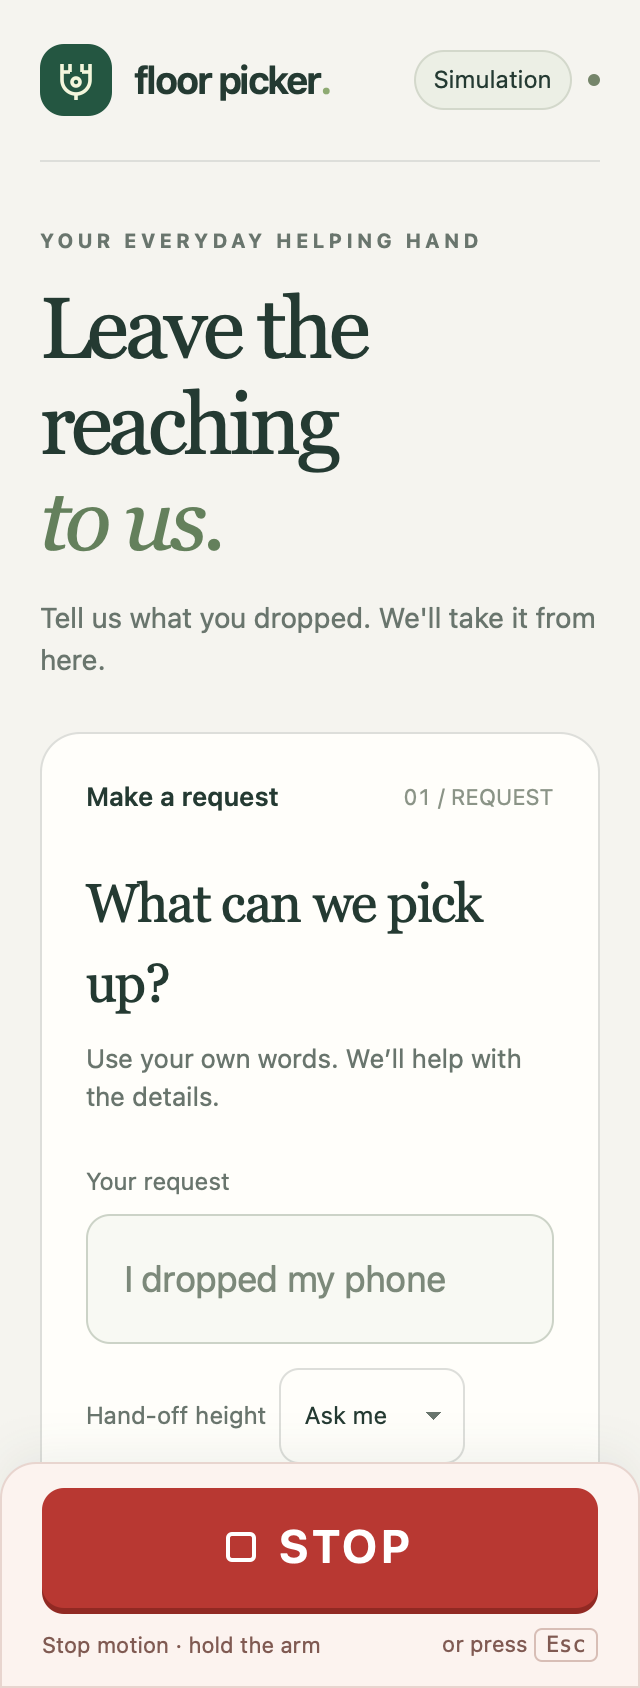
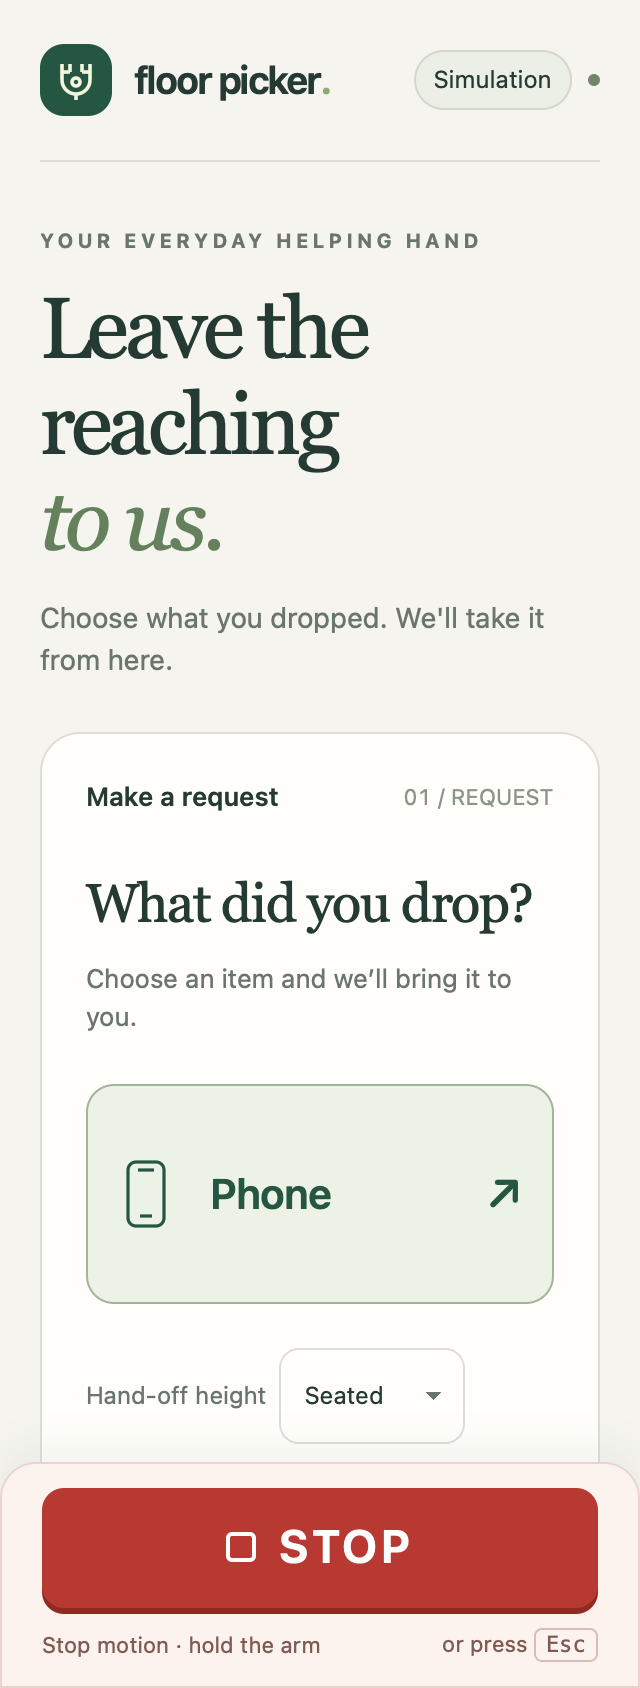
Replace typed request with a direct Phone choice

diff --git a/tests/page_harness.js b/tests/page_harness.js
@@ -132,7 +132,7 @@ const scenarios = {
   async question_is_shown_with_option_buttons() {
     routes["/request"] = opts => { bodies.push(JSON.parse(opts.body)); return reply(200, {parsed: ASK}); };
     await submit("I dropped something");
-    assert.deepStrictEqual(bodies, [{text: "I dropped something", hand: "", clarify: true, dialog: []}]);
+    assert.deepStrictEqual(bodies, [{text: "I dropped something", hand: "seated", clarify: true, dialog: []}]);
     assert.strictEqual(el("question").hidden, false);
     assert.match(el("question").textContent, /What did you drop\?/);
     assert.match(el("question").children[0].textContent, /Question 1 of up to 4/);
@@ -147,7 +147,7 @@ const scenarios = {
     routes["/request"] = opts => { bodies.push(JSON.parse(opts.body)); return reply(200, {parsed: n++ ? FETCH : ASK}); };
     await submit("I dropped something");
     await tap("phone");
-    assert.deepStrictEqual(bodies[1], {text: "I dropped something", hand: "", clarify: true,
+    assert.deepStrictEqual(bodies[1], {text: "I dropped something", hand: "seated", clarify: true,
                                        dialog: [{question: "What did you drop?", answer: "phone"}]});
     assert.strictEqual(el("reply").textContent, "Fetching: phone (standing)");
     assert.strictEqual(el("question").hidden, true, "the conversation is over");
@@ -176,7 +176,7 @@ const scenarios = {
     assert.deepStrictEqual(options(), []);
     assert.strictEqual(count("/stop"), 1);
     await submit("my pen");                  // starts afresh, not as an answer
-    assert.deepStrictEqual(bodies[1], {text: "my pen", hand: "", clarify: true, dialog: []});
+    assert.deepStrictEqual(bodies[1], {text: "my pen", hand: "seated", clarify: true, dialog: []});
     await submit("stop");                    // typed stop words clear it too
     await sleep(20);
     assert.strictEqual(el("question").hidden, true);

diff --git a/ui/server.py b/ui/server.py
@@ -385,6 +385,10 @@ dt { color:var(--muted); } dd { margin:0; font-variant-numeric:tabular-nums; ove
 footer { display:flex; justify-content:space-between; gap:16px; padding-top:24px; color:#7a8377; font-size:10px; letter-spacing:.3px; }
 #connection[data-online="false"] { color:var(--stop); } #connection[data-online="false"]::before { background:var(--stop); }
 .stale #state::after { content:" · Offline"; font:14px -apple-system,sans-serif; color:var(--stop); }
+button.phone-choice { grid-column:1/-1; grid-row:1; display:flex; align-items:center; gap:18px; min-height:110px; padding:24px; background:#edf2e6; color:var(--go); border:1px solid #a3b49b; font-size:21px; text-align:left; border-radius:14px; }
+button.phone-choice:hover { background:#dce7d1; border-color:var(--go); }
+.choice-arrow { margin-left:auto; font-size:23px; }
+#ask .select-wrap { grid-column:1/-1; margin-top:10px; }
 @media (min-width:761px) { .side { position:sticky; top:20px; } }
 @media (max-width:900px) { main { padding:0 28px 24px; } .brand-note { display:none; } h2 { font-size:46px; } .workspace { grid-template-columns:minmax(0,1.2fr) minmax(280px,1fr); } .card { padding:22px; } .select-wrap { gap:6px; } button.go { padding:12px 15px; } }
 @media (max-width:760px) {
@@ -405,21 +409,20 @@ footer { display:flex; justify-content:space-between; gap:16px; padding-top:24px
     <div class="top-status"><span class="mode">__MODE__</span><span id="connection" role="status">Connecting</span></div>
   </header>
   <section class="intro">
-    <div><div class="eyebrow">Your everyday helping hand</div><h2>Leave the reaching<br><em>to us.</em></h2><p>Tell us what you dropped. We'll take it from here.</p></div>
+    <div><div class="eyebrow">Your everyday helping hand</div><h2>Leave the reaching<br><em>to us.</em></h2><p>Choose what you dropped. We'll take it from here.</p></div>
     <p class="intro-note">From the floor to your hand.<br>A little more independence.</p>
   </section>
   <div id="stopfail" role="alert" hidden><b>STOP FAILED: hit the E-stop on the robot.</b><span id="stopwhy"></span> Trying again every second.</div>
   <div class="workspace">
     <section class="card request-card">
       <div class="card-label"><h3>Make a request</h3><span class="card-number">01 / REQUEST</span></div>
-      <h3 class="request-title">What can we pick up?</h3><p class="help">Use your own words. We’ll help with the details.</p>
+      <h3 class="request-title">What did you drop?</h3><p class="help">Choose an item and we’ll bring it to you.</p>
       <form id="ask">
-        <label class="input-label" for="text">Your request</label>
-        <input id="text" autocomplete="off" placeholder="I dropped my phone">
-        <div class="select-wrap"><label for="hand">Hand-off height</label><select id="hand" aria-label="Hand height"><option value="">Ask me</option><option value="seated">Seated</option><option value="standing">Standing</option></select></div>
-        <button class="go" id="go" type="submit" aria-disabled="false">Send request <span aria-hidden="true">↗</span></button>
+        <input id="text" type="hidden" value="phone">
+        <div class="select-wrap"><label for="hand">Hand-off height</label><select id="hand" aria-label="Hand height"><option value="seated">Seated</option><option value="standing">Standing</option></select></div>
+        <button class="go phone-choice" id="go" type="button" aria-disabled="false"><svg width="28" height="36" viewBox="0 0 28 36" fill="none" stroke="currentColor" stroke-width="1.6" aria-hidden="true"><rect x="5" y="2" width="18" height="32" rx="4"/><path d="M10 6h8M11 29h6"/></svg><span>Phone</span><span class="choice-arrow" aria-hidden="true">↗</span></button>
       </form>
-      <label id="setting"><input type="checkbox" id="clarify" checked> Ask me questions first</label>
+      <label id="setting" hidden><input type="checkbox" id="clarify"> Ask me questions first</label>
       <div id="question" role="status" aria-live="polite" hidden></div><div id="opts"></div>
       <button id="cancel" type="button" hidden>Cancel</button><div id="reply" role="status" aria-live="polite"></div>
       <div class="request-foot"><svg width="16" height="18" viewBox="0 0 16 18" fill="none" aria-hidden="true"><path d="M8 1 14 3v5c0 4-6 8-6 8S2 12 2 8V3l6-2Z" stroke="currentColor"/><path d="m5 8 2 2 4-4" stroke="currentColor"/></svg> You're in control. Stop a request at any time.</div>
@@ -500,7 +503,7 @@ $("cancel").addEventListener("click", () => { endConversation(); $("reply").text
 // The "Ask me questions first" setting; the page works without localStorage.
 let handTouched = false;
 try { const v = localStorage.getItem("clarify"); if (v !== null) $("clarify").checked = v === "1"; } catch (e) {}
-const syncHand = () => { if (!handTouched) $("hand").value = $("clarify").checked ? "" : "seated"; };
+const syncHand = () => { if (!handTouched) $("hand").value = "seated"; };
 syncHand();
 $("hand").addEventListener("change", () => { handTouched = true; });
 $("clarify").addEventListener("change", () => {
@@ -536,7 +539,9 @@ $("ask").addEventListener("submit", e => {
 });
 
 // Send the box text (or a tapped option): a new request, or the answer to the pending question.
-async function send(raw) {
+$("go").addEventListener("click", () => { endConversation(); return send("phone", true); });
+
+async function send(raw, direct = false) {
   const text = raw.trim(); if (!text) return;
   if (STOP_WORDS.test(text)) {           // typed stop goes straight to /stop, even mid-request
     $("text").value = ""; $("reply").textContent = "Stopping";
@@ -545,7 +550,7 @@ async function send(raw) {
   }
   if (stopFailing) { $("reply").textContent = "STOP has not gone through yet."; return; }
   if (asking) return;
-  const clarify = $("clarify").checked;
+  const clarify = !direct && $("clarify").checked;
   const answering = clarify && convo.pending !== null;      // else this starts a new request
   const sent = answering ? {text: convo.text, dialog: [...convo.dialog, {question: convo.pending, answer: text}]}
                          : {text, dialog: []};
